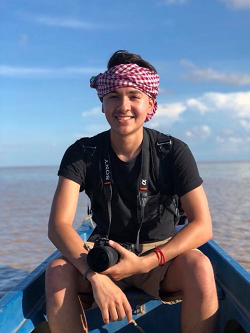
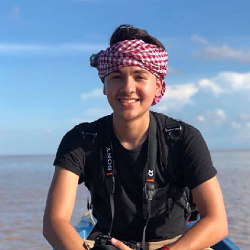
Minor Changes
Resized picture
Small typos

diff --git a/_pages/officers/sports.md b/_pages/officers/sports.md
@@ -14,7 +14,7 @@ permalink: /officers/sports/
 # --- (this is a section break)
 ---
 
-![image-left]({{ "/assets/images/officers/small/alex.png" | absolute_url }}){: .align-left}
+![image-left]({{ "/assets/images/officers/small/paolo.png" | absolute_url }}){: .align-left}
 ## Paolo Gavino
 <p style="margin-bottom: 0.45em; padding: 0"><a href="https://www.instagram.com/lexionboard/" style="margin: 0; padding: 0"><i class="fa fa-2x fa-fw fa-instagram" style="color: #494e48"></i></a>
 <a href="mailto:pmg416@vt.edu" style="margin: 0; padding: 0"><i class="fa fa-2x fa-fw fa-envelope" style="color: #494e48"></i></a></p>
@@ -44,9 +44,8 @@ permalink: /officers/sports/
 
 ![image-left]({{ "/assets/images/officers/small/alan.png" | absolute_url }}){: .align-left}
 ## Alan Do
-<p style="margin-bottom: 0.45em; padding: 0"><a href="https://twitter.com/_roll_thedicee" style="color: #494e48"><i class="fa fa-2x fa-fw fa-twitter"></i></a>
-<p style="margin-bottom: 0.45em; padding: 0"><a href="https://www.snapchat.com/add/alann_do" style="margin: 0; padding: 0"><i class="fa fa-2x fa-fw fa-snapchat-square" style="color: #494e48"></i></a>
-<a href="mailto:alan.do2017@gmail.com" style="margin: 0; padding: 0"><i class="fa fa-2x fa-fw fa-envelope" style="color: #494e48"></i></a></p>
+<p style="margin-bottom: 0.45em; padding: 0"><a href="https://www.instagram.com/lexionboard/" style="margin: 0; padding: 0"><i class="fa fa-2x fa-fw fa-instagram" style="color: #494e48"></i></a>
+<a href="mailto:pmg416@vt.edu" style="margin: 0; padding: 0"><i class="fa fa-2x fa-fw fa-envelope" style="color: #494e48"></i></a></p>
 <h3 style="margin-top: 0">Sophomore</h3>
 **Aerospace Engineering**
 

diff --git a/_pages/officers/eboard.md b/_pages/officers/eboard.md
@@ -89,13 +89,13 @@ permalink: /officers/eboard/
 
 > *Anything except acapella I’ll tell ya that much*
 
-### **Dream Job (and why)?**
+### **What is your description of a perfect day?**
 
-> *Therapist because you’re crazy and I like that*
+> *One where it’s my turn to clean the courtyard after lunch at the prison*
 
-### **If you could live anywhere in the world, where would it be and why?**
+### **What is something that people flame you for?**
 
-> *My apartment because such wholesome people live there*
+> *My patchy beard, my hair is losing volume, my voice cracks, my eating habits, my study habits, my terrible gpa, my fat body, my self esteem, my life*
 
 ---
 
